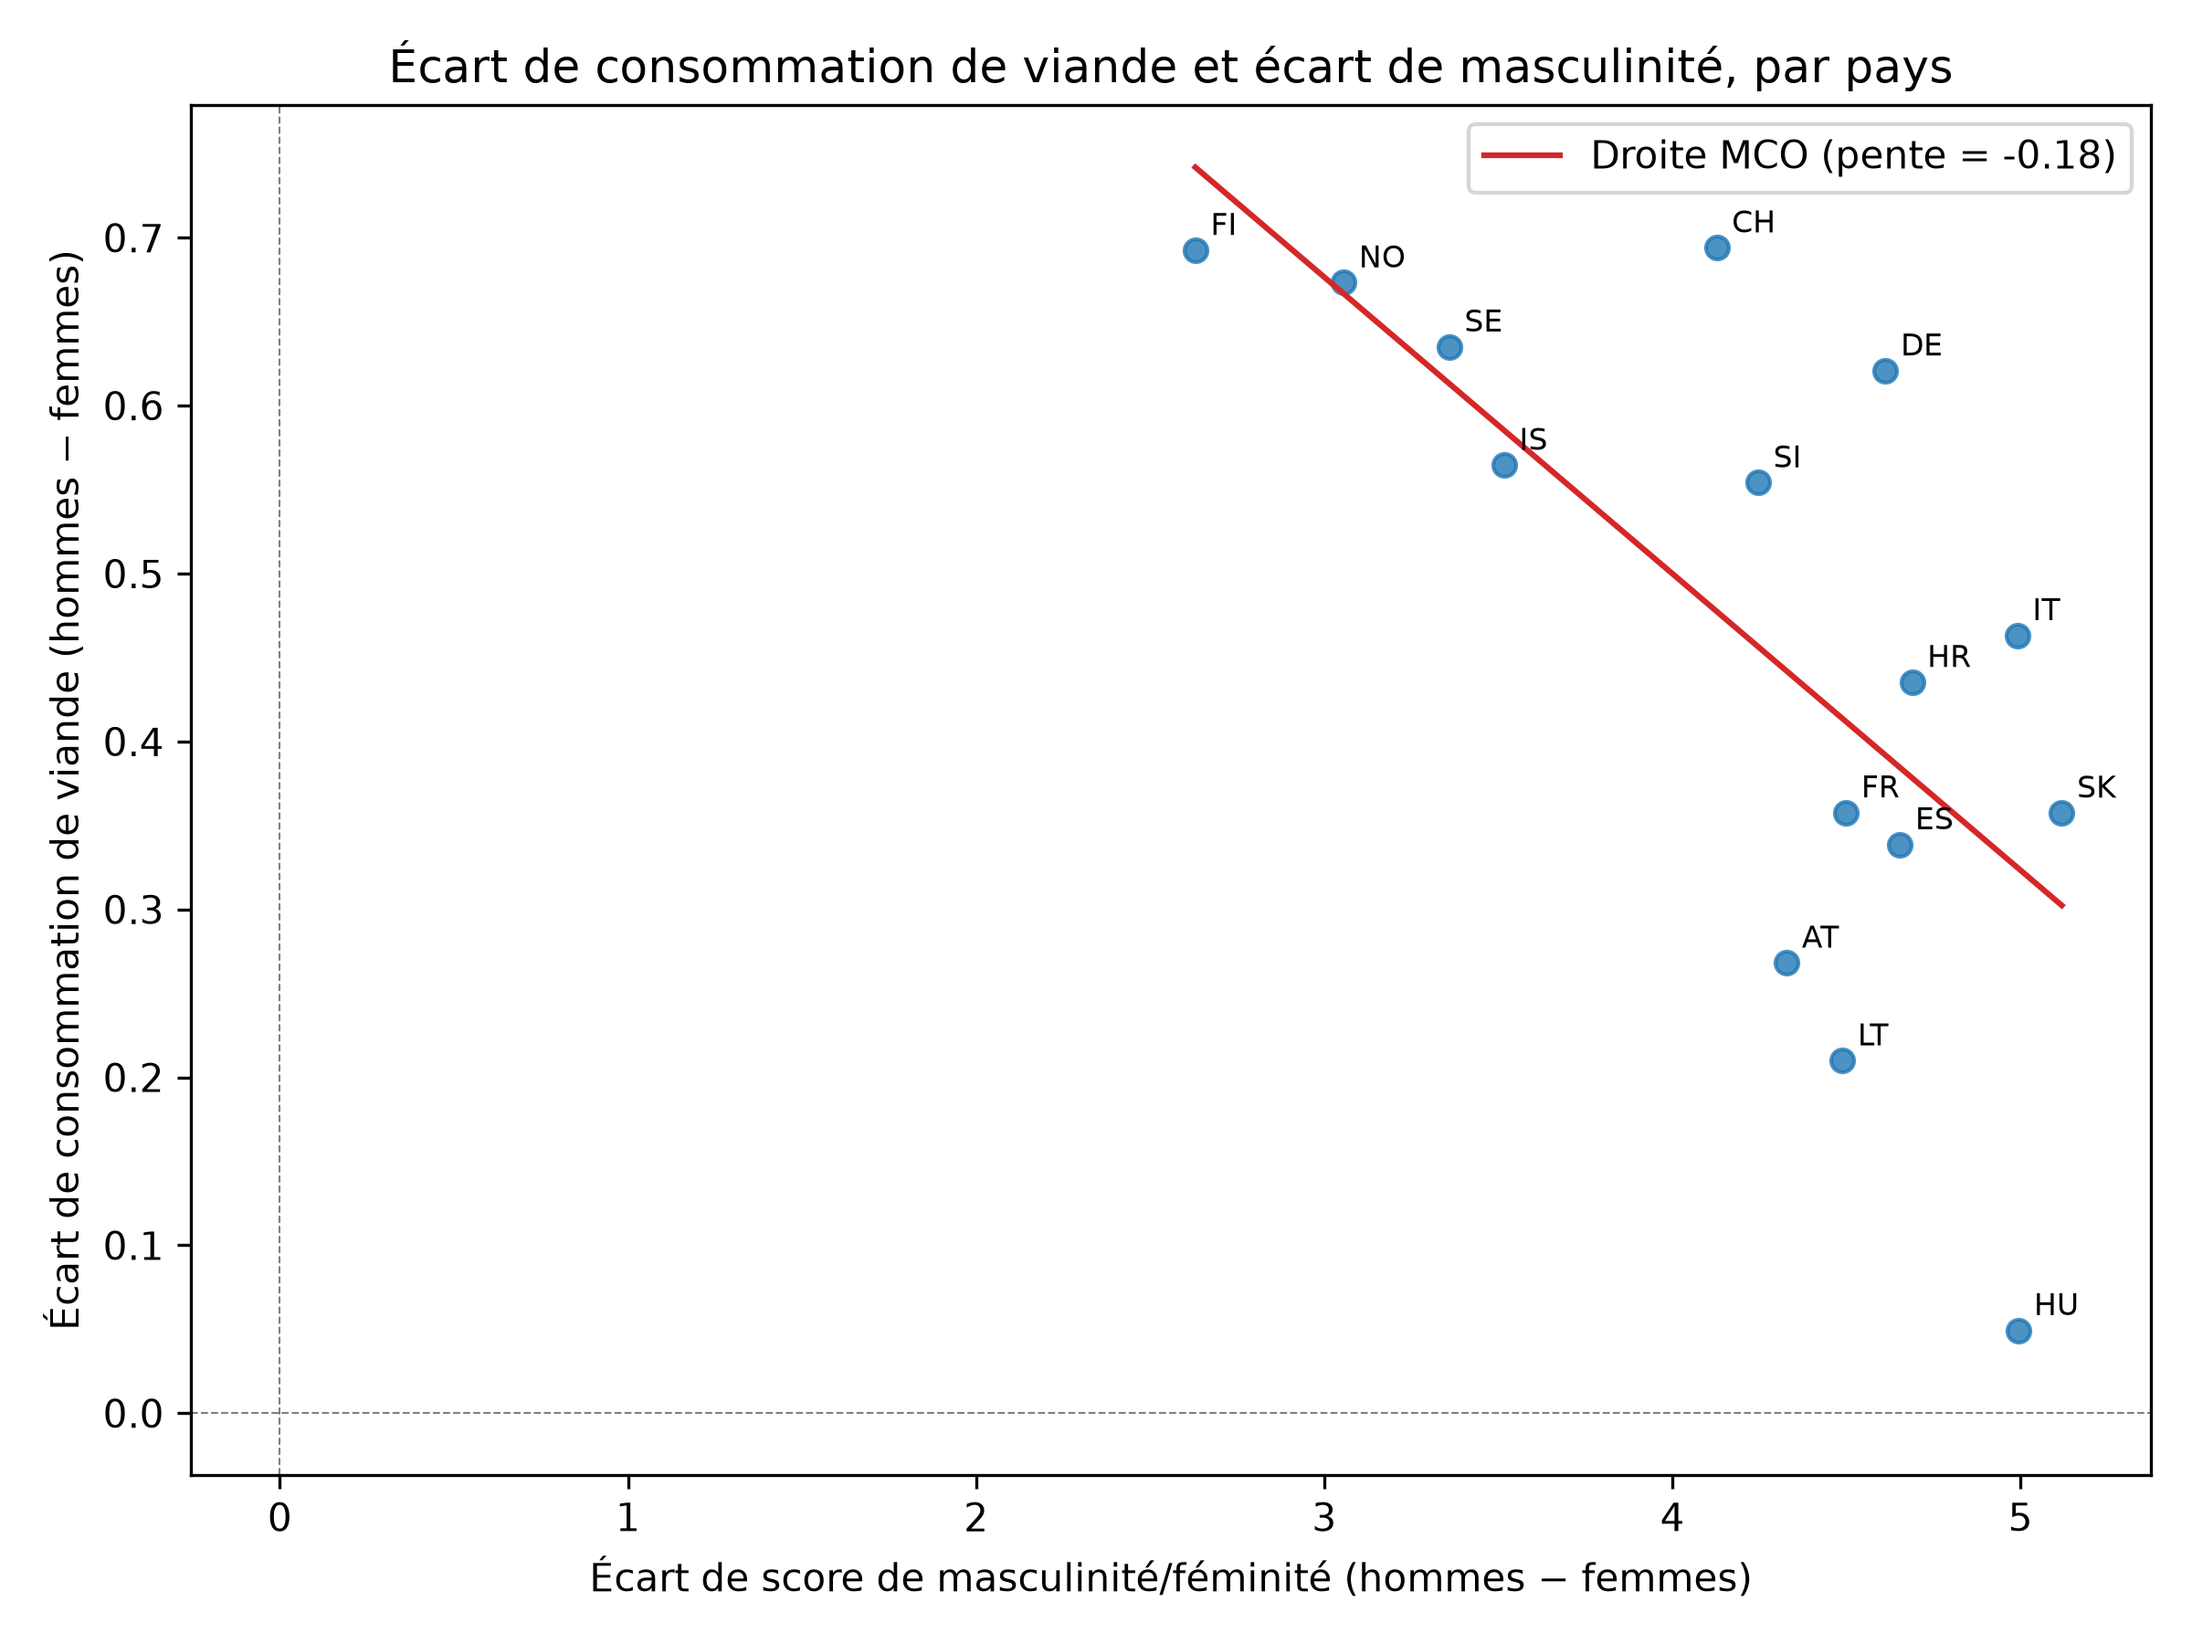
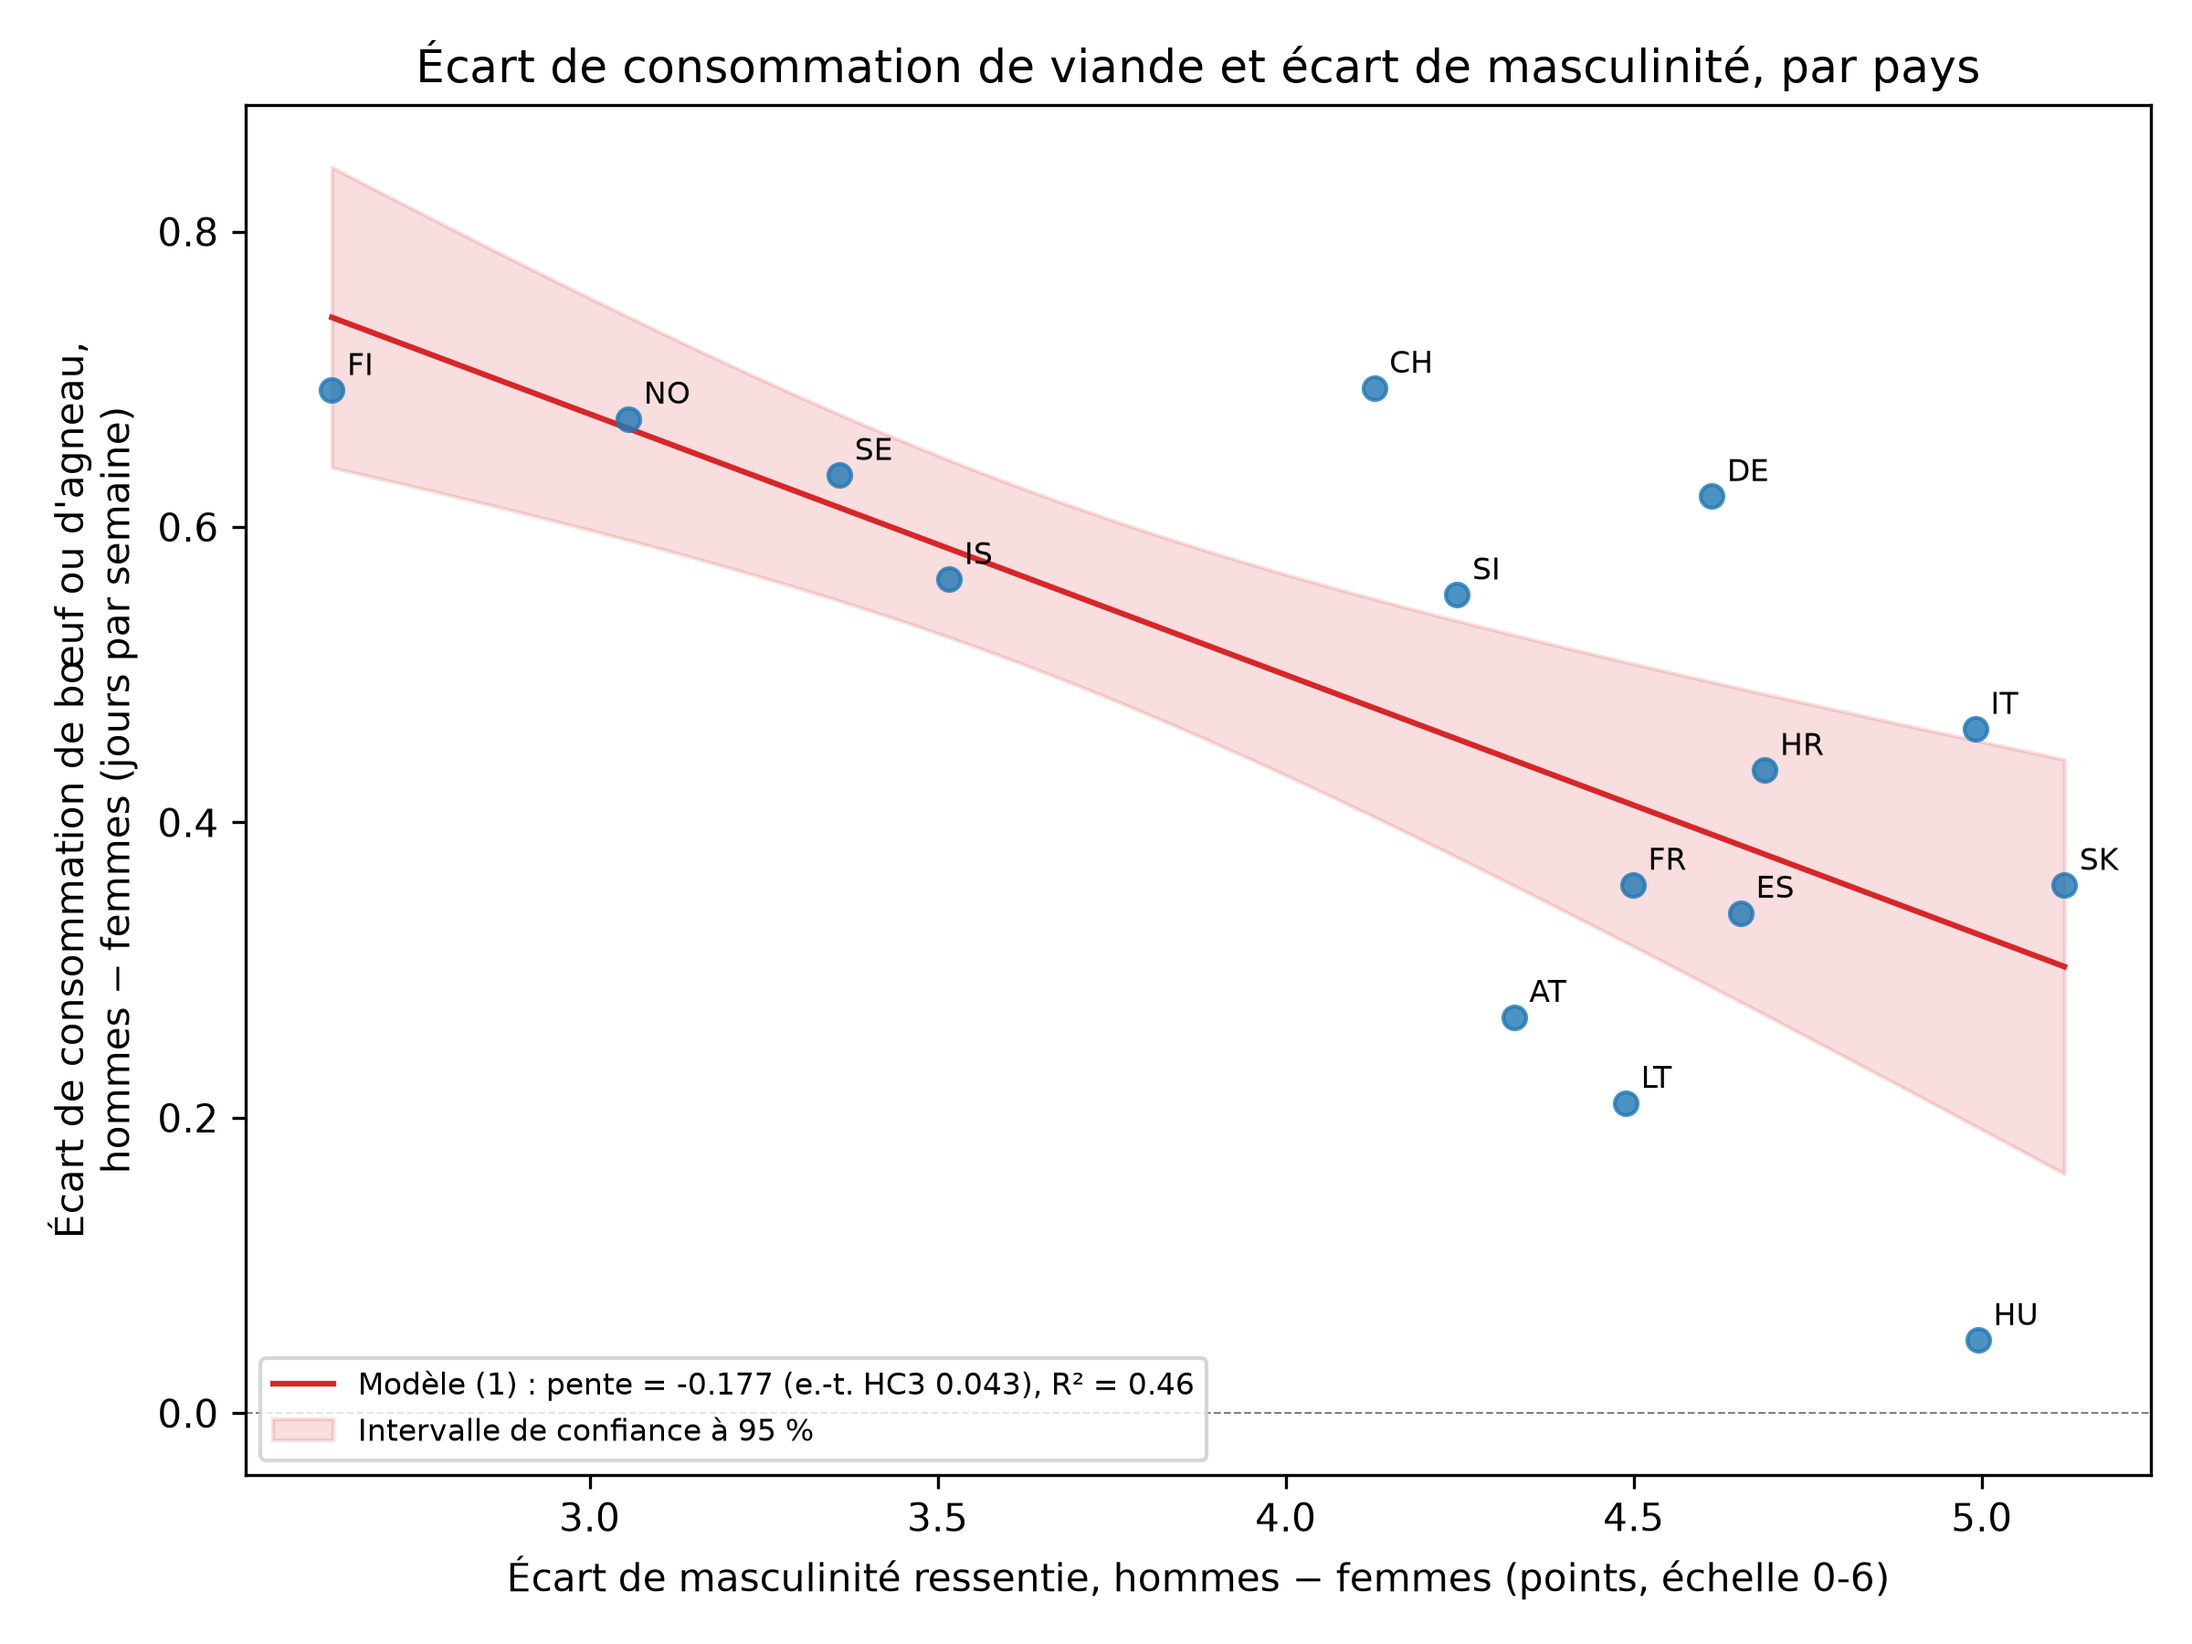
Nuage de points tiré du modèle (1) et tableau descriptif par pays
- regression.py : nuage tracé après l'estimation, droite et IC à 95 % issus de modele_1 (HC3)
- stats_descriptives.py : tableau par pays (consommation, écart, ratio H/F, masculinité, PIB PPA) -> sorties/tableau_pays.tex
- notebook : tableau et commentaire en section 3, ETAPES et annexe mises à jour

diff --git a/Src/regression.py b/Src/regression.py
@@ -167,39 +167,7 @@ matrice_corr.to_latex(DOSSIER_SORTIES / "correlations.tex")
 
 
 # ======================================================================
-# 4. VISUALISATION
-# ======================================================================
-
-def tracer_nuage(df: pd.DataFrame, col_pays: str, chemin_sortie: Path) -> None:
-    """Nuage de points X vs Y, étiqueté par pays, avec droite des MCO simples."""
-    fig, ax = plt.subplots(figsize=(8, 6))
-    ax.scatter(df[X], df[Y], color="tab:blue", alpha=0.8)
-
-    for _, ligne in df.iterrows():
-        ax.annotate(str(ligne[col_pays]), (ligne[X], ligne[Y]),
-                    xytext=(4, 4), textcoords="offset points", fontsize=8)
-
-    pente, ordonnee = np.polyfit(df[X], df[Y], deg=1)
-    grille = np.linspace(df[X].min(), df[X].max(), 100)
-    ax.plot(grille, ordonnee + pente * grille, color="tab:red",
-            label=f"Droite MCO (pente = {pente:.2f})")
-
-    ax.axhline(0, color="grey", lw=0.5, ls="--")
-    ax.axvline(0, color="grey", lw=0.5, ls="--")
-    ax.set_xlabel("Écart de score de masculinité/féminité (hommes − femmes)")   # préciser l'unité du score
-    ax.set_ylabel("Écart de consommation de viande (hommes − femmes)")          # préciser l'unité de conso
-    ax.set_title("Écart de consommation de viande et écart de masculinité, par pays")
-    ax.legend()
-    fig.tight_layout()
-    fig.savefig(chemin_sortie, dpi=300)
-    plt.show()
-
-
-tracer_nuage(df, COLONNES["pays"], DOSSIER_SORTIES / "nuage_ecarts.png")
-
-
-# ======================================================================
-# 5. RÉGRESSIONS
+# 4. RÉGRESSIONS
 # Écarts-types robustes à l'hétéroscédasticité HC3, recommandés pour les
 # petits échantillons (ici quelques dizaines de pays).
 # ======================================================================
@@ -208,6 +176,46 @@ modele_1 = smf.ols(f"{Y} ~ {X}", data=df).fit(cov_type="HC3")
 modele_2 = smf.ols(f"{Y} ~ {X} + {CONTROLE}", data=df).fit(cov_type="HC3")
 
 print(modele_2.summary())
+
+
+# ======================================================================
+# 5. NUAGE DE POINTS ET DROITE DU MODÈLE (1)
+# ======================================================================
+
+def tracer_nuage(modele, df: pd.DataFrame, col_pays: str, chemin_sortie: Path) -> None:
+    """Nuage de points X vs Y, étiqueté par pays, avec la droite estimée par `modele`
+    (régression simple de Y sur X) et sa bande de confiance à 95 %.
+
+    La droite et la bande viennent de `modele.get_prediction` : elles utilisent donc
+    les mêmes erreurs-types (HC3) que le tableau de résultats.
+    """
+    fig, ax = plt.subplots(figsize=(8, 6))
+    ax.scatter(df[X], df[Y], color="tab:blue", alpha=0.8, zorder=3)
+
+    for _, ligne in df.iterrows():
+        ax.annotate(str(ligne[col_pays]), (ligne[X], ligne[Y]),
+                    xytext=(4, 4), textcoords="offset points", fontsize=8)
+
+    grille = pd.DataFrame({X: np.linspace(df[X].min(), df[X].max(), 100)})
+    prediction = modele.get_prediction(grille).summary_frame(alpha=0.05)
+
+    beta, erreur_type = modele.params[X], modele.bse[X]
+    ax.plot(grille[X], prediction["mean"], color="tab:red",
+            label=f"Modèle (1) : pente = {beta:.3f} (e.-t. HC3 {erreur_type:.3f}), R² = {modele.rsquared:.2f}")
+    ax.fill_between(grille[X], prediction["mean_ci_lower"], prediction["mean_ci_upper"],
+                    color="tab:red", alpha=0.15, label="Intervalle de confiance à 95 %")
+
+    ax.axhline(0, color="grey", lw=0.5, ls="--")
+    ax.set_xlabel("Écart de masculinité ressentie, hommes − femmes (points, échelle 0-6)")
+    ax.set_ylabel("Écart de consommation de bœuf ou d'agneau,\nhommes − femmes (jours par semaine)")
+    ax.set_title("Écart de consommation de viande et écart de masculinité, par pays")
+    ax.legend(loc="lower left", fontsize=8)
+    fig.tight_layout()
+    fig.savefig(chemin_sortie, dpi=300)
+    plt.show()
+
+
+tracer_nuage(modele_1, df, COLONNES["pays"], DOSSIER_SORTIES / "nuage_ecarts.png")
 
 
 # ======================================================================

diff --git a/Src/stats_descriptives.py b/Src/stats_descriptives.py
@@ -1,0 +1,86 @@
+"""Statistiques descriptives par pays.
+
+Construit, à partir de la table jointe (une ligne = un pays), un tableau qui présente
+pour chaque pays la consommation de bœuf ou d'agneau des hommes et des femmes, l'écart
+et le ratio entre les deux, la masculinité ressentie pondérée par sexe, l'écart de
+masculinité et le PIB par habitant en PPA.
+
+Entrée  : Data/processed/table_jointe.csv (produite par Src/merge.py)
+Sortie  : sorties/tableau_pays.tex
+
+Usage, depuis la racine du projet :
+    python Src/stats_descriptives.py
+"""
+from pathlib import Path
+
+import pandas as pd
+
+# ======================================================================
+# PARAMÈTRES
+# ======================================================================
+
+RACINE = Path(__file__).resolve().parents[1]
+CHEMIN_DONNEES = RACINE / "Data" / "processed" / "table_jointe.csv"
+DOSSIER_SORTIES = RACINE / "sorties"
+CHEMIN_SORTIE = DOSSIER_SORTIES / "tableau_pays.tex"
+
+NOMS_PAYS = {
+    "AT": "Autriche", "CH": "Suisse", "DE": "Allemagne", "ES": "Espagne", "FI": "Finlande",
+    "FR": "France", "HR": "Croatie", "HU": "Hongrie", "IS": "Islande", "IT": "Italie",
+    "LT": "Lituanie", "NO": "Norvège", "SE": "Suède", "SI": "Slovénie", "SK": "Slovaquie",
+}
+
+# Colonnes du tableau final : {nom affiché: nombre de décimales}
+DECIMALES = {
+    "Viande H": 2, "Viande F": 2, "Écart viande": 2, "Ratio H/F": 2,
+    "Masc. H": 2, "Masc. F": 2, "Écart masc.": 2, "PIB/hab PPA": 0,
+}
+
+
+# ======================================================================
+# FONCTIONS
+# ======================================================================
+
+def construire_tableau(df: pd.DataFrame) -> pd.DataFrame:
+    """Construit le tableau par pays, trié par écart de consommation décroissant.
+
+    - Viande H / F : jours par semaine où l'on mange du bœuf ou de l'agneau (ISSP, pondéré) ;
+    - Écart viande : Viande H − Viande F ; Ratio H/F : Viande H / Viande F ;
+    - Masc. H / F : masculinité ressentie moyenne, échelle 0-6 (ESS, pondérée par anweight) ;
+    - Écart masc. : Masc. H − Masc. F ;
+    - PIB/hab PPA : dollars internationaux constants de 2021, année 2022.
+    """
+    tableau = pd.DataFrame({
+        "Pays": df["iso2"].map(NOMS_PAYS).fillna(df["iso2"]),
+        "Viande H": df["conso_homme"],
+        "Viande F": df["conso_femme"],
+        "Écart viande": df["ecart_h_f"],
+        "Ratio H/F": df["conso_homme"] / df["conso_femme"],
+        "Masc. H": df["mascfel_homme_w"],
+        "Masc. F": df["mascfel_femme_w"],
+        "Écart masc.": df["mascfel_homme_w"] - df["mascfel_femme_w"],
+        "PIB/hab PPA": df["pib_hab"],
+    })
+    return tableau.sort_values("Écart viande", ascending=False).set_index("Pays")
+
+
+def arrondir(tableau: pd.DataFrame) -> pd.DataFrame:
+    """Arrondit chaque colonne au nombre de décimales prévu ; le PIB passe en entier."""
+    tableau = tableau.round(DECIMALES)
+    tableau["PIB/hab PPA"] = tableau["PIB/hab PPA"].astype(int)
+    return tableau
+
+
+def main() -> None:
+    df = pd.read_csv(CHEMIN_DONNEES)
+    tableau = arrondir(construire_tableau(df))
+    print(tableau.to_string())
+
+    DOSSIER_SORTIES.mkdir(exist_ok=True)
+    # Sans nom d'index, pour éviter une ligne d'en-tête vide supplémentaire dans le .tex
+    tableau.rename_axis(None).to_latex(CHEMIN_SORTIE, float_format="%.2f", encoding="utf-8")
+    print(f"Tableau par pays enregistré : {CHEMIN_SORTIE}")
+
+
+if __name__ == "__main__":
+    main()

diff --git a/sorties/tableau_pays.tex b/sorties/tableau_pays.tex
@@ -1,0 +1,21 @@
+\begin{tabular}{lrrrrrrrr}
+\toprule
+ & Viande H & Viande F & Écart viande & Ratio H/F & Masc. H & Masc. F & Écart masc. & PIB/hab PPA \\
+\midrule
+Suisse & 2.59 & 1.90 & 0.69 & 1.37 & 5.20 & 1.07 & 4.13 & 85762 \\
+Finlande & 2.94 & 2.24 & 0.69 & 1.31 & 4.19 & 1.56 & 2.63 & 57068 \\
+Norvège & 3.04 & 2.36 & 0.67 & 1.29 & 4.53 & 1.47 & 3.06 & 95110 \\
+Suède & 2.59 & 1.96 & 0.64 & 1.32 & 4.64 & 1.29 & 3.36 & 62545 \\
+Allemagne & 2.16 & 1.54 & 0.62 & 1.40 & 5.23 & 0.62 & 4.61 & 63778 \\
+Islande & 3.24 & 2.68 & 0.56 & 1.21 & 4.85 & 1.34 & 3.52 & 66581 \\
+Slovénie & 1.95 & 1.40 & 0.55 & 1.40 & 5.39 & 1.14 & 4.25 & 47059 \\
+Italie & 2.70 & 2.24 & 0.46 & 1.21 & 5.60 & 0.61 & 4.99 & 52333 \\
+Croatie & 2.45 & 2.02 & 0.44 & 1.22 & 5.25 & 0.56 & 4.69 & 39864 \\
+France & 2.43 & 2.08 & 0.36 & 1.17 & 5.52 & 1.02 & 4.50 & 53674 \\
+Slovaquie & 1.20 & 0.85 & 0.36 & 1.42 & 5.46 & 0.34 & 5.12 & 38649 \\
+Espagne & 2.05 & 1.72 & 0.34 & 1.20 & 5.35 & 0.69 & 4.65 & 46733 \\
+Autriche & 2.22 & 1.95 & 0.27 & 1.14 & 5.04 & 0.71 & 4.33 & 65694 \\
+Lituanie & 0.96 & 0.75 & 0.21 & 1.28 & 5.52 & 1.03 & 4.49 & 46643 \\
+Hongrie & 0.65 & 0.61 & 0.05 & 1.08 & 5.46 & 0.46 & 4.99 & 40611 \\
+\bottomrule
+\end{tabular}
